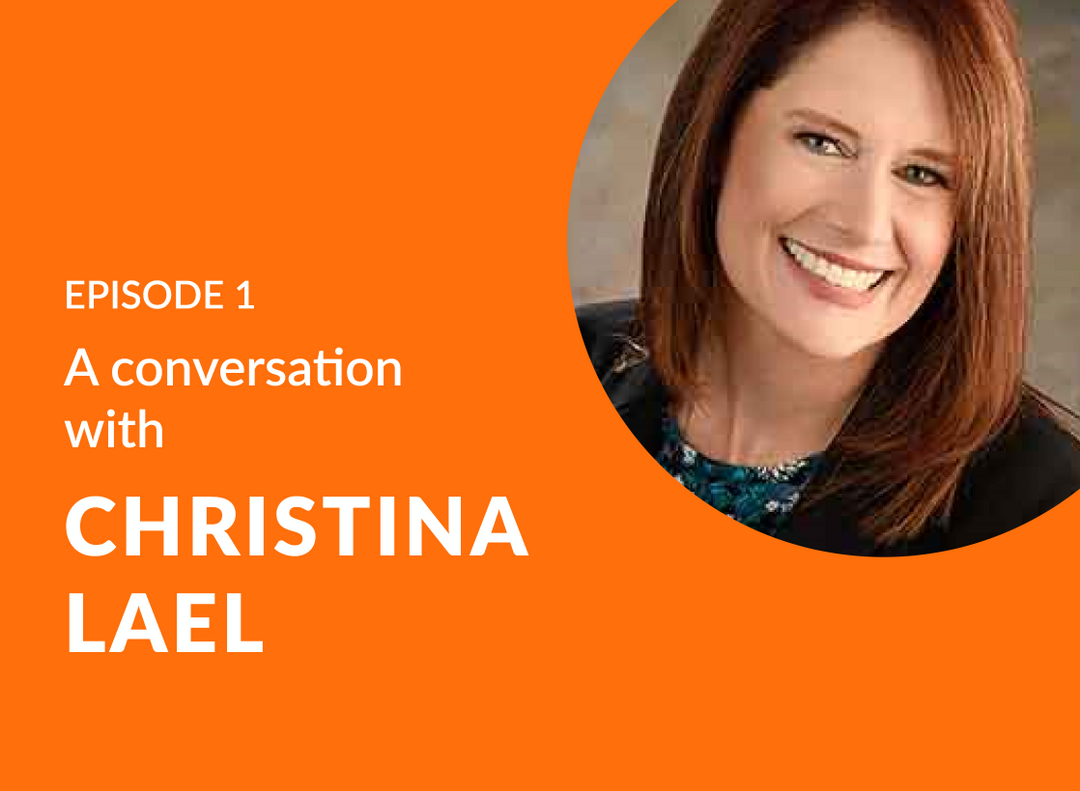
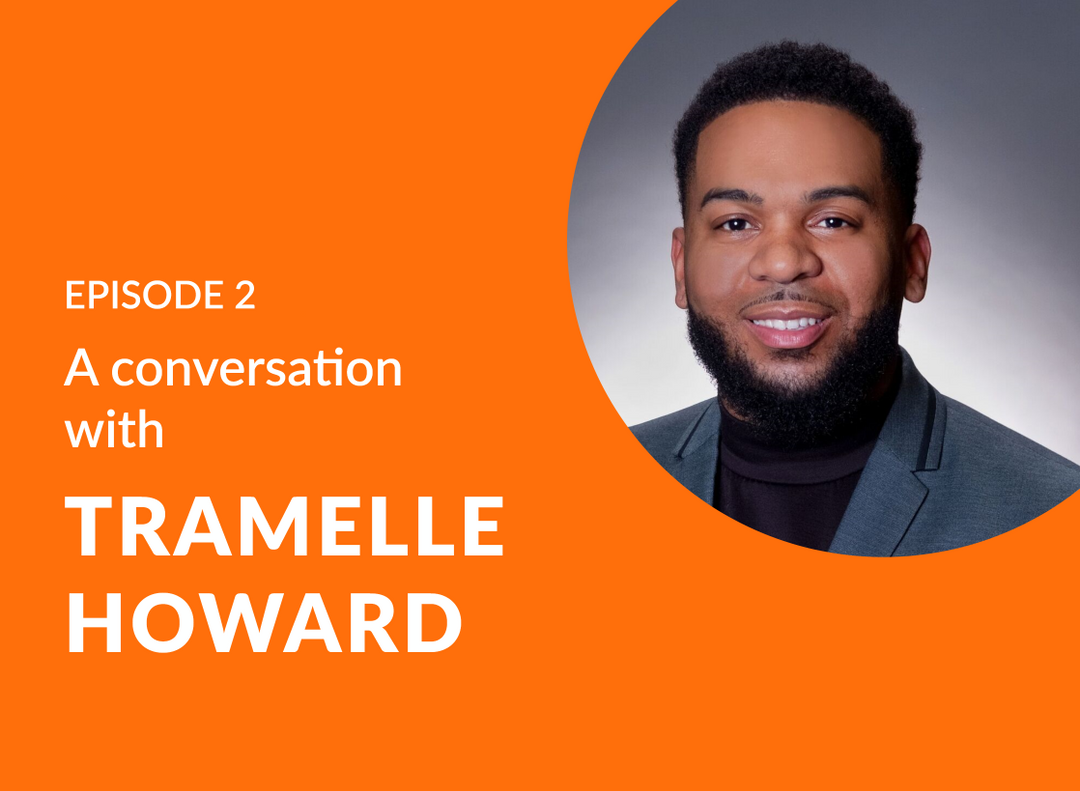
Episode 2

diff --git a/episodes/episode-2-tramelle-howard-policy-manager-and-lawyer-you-are-a-lawyer-podcast.html b/episodes/episode-2-tramelle-howard-policy-manager-and-lawyer-you-are-a-lawyer-podcast.html
@@ -1,15 +1,15 @@
 <!DOCTYPE html>
 <!--  This site was created in Webflow. http://www.webflow.com  -->
 <!--  Last Published: Thu May 14 2020 16:45:26 GMT+0000 (Coordinated Universal Time)  -->
-<html data-wf-page="5eab01162a096799f2105f12" data-wf-site="5e7a784685f232766bfb0c8c">
+<html data-wf-page="5ebd74fb89d6c42dfcaad224" data-wf-site="5e7a784685f232766bfb0c8c">
 <head>
   <meta charset="utf-8">
-  <title>Episode 1 | Christina Lael - Account and Lawyer</title>
-  <meta content="In this episode, Christina Lael, a 2010 Nashville School of Law graduate, explains how her experience as a certified public accountant promoted her to attend law school. Her knowledge of the tax code and law degree allowed Christina to create a niche tax practice." name="description">
-  <meta content="Episode 1 | Christina Lael - Account and Lawyer" property="og:title">
-  <meta content="In this episode, Christina Lael, a 2010 Nashville School of Law graduate, explains how her experience as a certified public accountant promoted her to attend law school. Her knowledge of the tax code and law degree allowed Christina to create a niche tax practice." property="og:description">
-  <meta content="Episode 1 | Christina Lael - Account and Lawyer" property="twitter:title">
-  <meta content="In this episode, Christina Lael, a 2010 Nashville School of Law graduate, explains how her experience as a certified public accountant promoted her to attend law school. Her knowledge of the tax code and law degree allowed Christina to create a niche tax practice." property="twitter:description">
+  <title>Episode 2 | Tramelle Howard - Policy Manager and Lawyer - You are a Lawyer Podcast</title>
+  <meta content="In this episode, Tramelle Howard, a 2015 Southern University Law Center graduate, explains how his experiences working with Teach for America taught him that he could advocate for others on a larger scale by working with the Education Trust in Louisiana.  Tramelle combined his legal education with his legal clinic training and ran for office, becoming the youngest person elected to District Three of the East Baton Rouge School Board." name="description">
+  <meta content="Episode 2 | Tramelle Howard - Policy Manager and Lawyer - You are a Lawyer Podcast" property="og:title">
+  <meta content="In this episode, Tramelle Howard, a 2015 Southern University Law Center graduate, explains how his experiences working with Teach for America taught him that he could advocate for others on a larger scale by working with the Education Trust in Louisiana.  Tramelle combined his legal education with his legal clinic training and ran for office, becoming the youngest person elected to District Three of the East Baton Rouge School Board." property="og:description">
+  <meta content="Episode 2 | Tramelle Howard - Policy Manager and Lawyer - You are a Lawyer Podcast" property="twitter:title">
+  <meta content="In this episode, Tramelle Howard, a 2015 Southern University Law Center graduate, explains how his experiences working with Teach for America taught him that he could advocate for others on a larger scale by working with the Education Trust in Louisiana.  Tramelle combined his legal education with his legal clinic training and ran for office, becoming the youngest person elected to District Three of the East Baton Rouge School Board." property="twitter:description">
   <meta property="og:type" content="website">
   <meta content="summary_large_image" name="twitter:card">
   <meta content="width=device-width, initial-scale=1" name="viewport">
@@ -71,11 +71,11 @@
   <div class="section">
     <div class="wrapper">
       <div class="row-nocolumns">
-        <h1 class="heading-7">Christina Lael - Account and Lawyer</h1>
-        <p>In this episode, Christina Lael, a 2010 Nashville School of Law graduate, explains how her experience as a certified public accountant promoted her to attend law school. Her knowledge of the tax code and law degree allowed Christina to create a niche tax practice.</p>
-        <div class="w-embed w-iframe"><iframe src="https://share.transistor.fm/e/964815d9" width="100%" height="180" frameborder="0" scrolling="no" seamless="true" style="width:100%; height:180px;"></iframe></div>
+        <h1 class="heading-7">Tramelle Howard - Policy Manager and Lawyer</h1>
+        <p>In this episode, Tramelle Howard, a 2015 Southern University Law Center graduate, explains how his experiences working with Teach for America taught him that he could advocate for others on a larger scale by working with the Education Trust in Louisiana.  Tramelle combined his legal education with his legal clinic training and ran for office, becoming the youngest person elected to District Three of the East Baton Rouge School Board.</p>
+        <div class="w-embed w-iframe"><iframe width="100%" height="180" frameborder="no" scrolling="no" seamless="" src="https://share.transistor.fm/e/8b513755"></iframe></div>
         <h3>Show notes</h3>
-        <p>Christina Lael owns and operates Lael Tax, LLC, based in Fort Myers, Florida.  Her business helps law firms save money with her thorough knowledge of the United States tax code.  Christina is a certified public accountant in Tennessee and Florida and a licensed attorney in the state of Tennessee. <br><br>Visit laeltax.com and sign up for the Lael Tax, LLC newsletter to receive copy of a book chapter entitled, Hidden Business Expenses.  This chapter is written by Christina and will be included in a book co-authored by Christina about the tax code.  More details at laeltax.com.<br><br>Follow the podcast on Twitter @YouAreA_Lawyer, Instagram @youarealawyer and on LinkedIn.  Follow the podcast host, Kyla Denanyoh on Instagram @kjd796.</p>
+        <p>Tramelle Howard serves as the external relations and policy manager with the Education Trust, where he advocates for equity for black, brown and low-income students in Baton Rouge, Louisiana.  Tramelle is currently serving District Three of the East Baton Rouge School Board, where he acts as the Vice President of that board. <br><br>Tramelle chose not to take any state’s bar exam and he has not regretted that decision.  Tramelle&#x27;s law degree has impacted his career in numerous ways, even though the trajectory of his career changed in numerous ways.<br><br>You may follow Tramelle Howard on Facebook, LinkedIn, Instagram @Tramelle.Howard, and Twitter @Tramelle.Howard.  <br><br>Follow the podcast on Twitter @YouAreA_Lawyer, Instagram @youarealawyer and on LinkedIn.  Follow the podcast host, Kyla Denanyoh, on Instagram @kjd796. <br><br><br></p>
       </div>
     </div>
   </div>
@@ -84,9 +84,9 @@
       <h2 class="recent-episodes">Recent Episodes</h2>
       <div class="row-nocolumns">
         <div class="innergrid">
-          <div class="episodecard"><a href="../episodes/episode-1-christina-lael-account-and-lawyer-you-are-a-lawyer-podcast.html" aria-current="page" class="w-inline-block w--current"><img src="../images/NF--episode-1.png" srcset="../images/NF--episode-1.png 500w, ../images/NF--episode-1.png 800w, ../images/NF--episode-1.png 1080w, ../images/NF--episode-1.png 1600w, ../images/NF--episode-1.png 3355w" sizes="(max-width: 479px) 100vw, (max-width: 991px) 44vw, 29vw" alt="" class="image-3"></a>
-            <h4 class="heading-2"><a href="../episodes/episode-1-christina-lael-account-and-lawyer-you-are-a-lawyer-podcast.html" aria-current="page" class="link-2 w--current">Episode 1 - Christina Lael - Accountant and Lawyer</a></h4>
-            <p class="paragraph-3">In this episode, Christina Lael, a 2010 Nashville School of Law graduate, explains how...</p><a href="../episodes/episode-1-christina-lael-account-and-lawyer-you-are-a-lawyer-podcast.html" aria-current="page" class="link-5 w--current">Read more &amp; listen</a></div>
+          <div class="episodecard"><a href="../episodes/episode-1-christina-lael-account-and-lawyer-you-are-a-lawyer-podcast.html" class="w-inline-block"><img src="../images/NF--episode-1.png" srcset="../images/NF--episode-1.png 500w, ../images/NF--episode-1.png 800w, ../images/NF--episode-1.png 1080w, ../images/NF--episode-1.png 1600w, ../images/NF--episode-1.png 3355w" sizes="(max-width: 479px) 100vw, (max-width: 991px) 44vw, 29vw" alt="" class="image-3"></a>
+            <h4 class="heading-2"><a href="../episodes/episode-1-christina-lael-account-and-lawyer-you-are-a-lawyer-podcast.html" class="link-2">Episode 1 - Christina Lael - Accountant and Lawyer</a></h4>
+            <p class="paragraph-3">In this episode, Christina Lael, a 2010 Nashville School of Law graduate, explains how...</p><a href="../episodes/episode-1-christina-lael-account-and-lawyer-you-are-a-lawyer-podcast.html" class="link-5">Read more &amp; listen</a></div>
           <div class="episodecard"><a href="../episodes/episode-0-how-law-school-helped-me-find-my-seat-at-the-table.html" class="w-inline-block"><img src="../images/episode-0-non-featured.jpg" srcset="../images/episode-0-non-featured-p-1080.jpeg 1080w, ../images/episode-0-non-featured-p-1600.jpeg 1600w, ../images/episode-0-non-featured-p-2000.jpeg 2000w, ../images/episode-0-non-featured-p-2600.jpeg 2600w, ../images/episode-0-non-featured-p-3200.jpeg 3200w, ../images/episode-0-non-featured.jpg 3355w" sizes="(max-width: 479px) 100vw, (max-width: 991px) 44vw, 29vw" alt="" class="image-3"></a>
             <h4 class="heading-2"><a href="../episodes/episode-0-how-law-school-helped-me-find-my-seat-at-the-table.html" class="link-2">Episode 0 - How law school helped me find my seat at the table</a></h4>
             <p class="paragraph-3">Check out the trailer to the show and learn about my journey to creating this podcast.</p><a href="../episodes/episode-0-how-law-school-helped-me-find-my-seat-at-the-table.html" class="link-5">Read more &amp; listen</a></div>

diff --git a/index.html b/index.html
@@ -1,6 +1,6 @@
 <!DOCTYPE html>
 <!--  This site was created in Webflow. http://www.webflow.com  -->
-<!--  Last Published: Thu Apr 30 2020 17:07:00 GMT+0000 (Coordinated Universal Time)  -->
+<!--  Last Published: Thu May 14 2020 16:45:26 GMT+0000 (Coordinated Universal Time)  -->
 <html data-wf-page="5e7a784685f232ee46fb0c8d" data-wf-site="5e7a784685f232766bfb0c8c">
 <head>
   <meta charset="utf-8">
@@ -8,7 +8,10 @@
   <meta content="You are a Lawyer is a podcast that shares the experiences and successes of law graduates who created their own paths. Kyla Denanyoh dives into the stories of lawyers who have chased their own unique paths." name="description">
   <meta content="You are a Lawyer Podcast hosted by Kyla Denanyoh" property="og:title">
   <meta content="You are a Lawyer is a podcast that shares the experiences and successes of law graduates who created their own paths. Kyla Denanyoh dives into the stories of lawyers who have chased their own unique paths." property="og:description">
-  <meta content="summary" name="twitter:card">
+  <meta content="You are a Lawyer Podcast hosted by Kyla Denanyoh" property="twitter:title">
+  <meta content="You are a Lawyer is a podcast that shares the experiences and successes of law graduates who created their own paths. Kyla Denanyoh dives into the stories of lawyers who have chased their own unique paths." property="twitter:description">
+  <meta property="og:type" content="website">
+  <meta content="summary_large_image" name="twitter:card">
   <meta content="width=device-width, initial-scale=1" name="viewport">
   <meta content="Webflow" name="generator">
   <link href="css/normalize.css" rel="stylesheet" type="text/css">
@@ -22,7 +25,7 @@
   <link href="images/webclip.png" rel="apple-touch-icon">
 </head>
 <body class="body">
-  <div data-collapse="medium" data-animation="default" data-duration="400" class="navbar w-nav">
+  <div data-collapse="medium" data-animation="default" data-duration="400" role="banner" class="navbar w-nav">
     <div class="wrapper navbar w-container">
       <div class="logowrap"><a href="index.html" aria-current="page" class="w-nav-brand w--current"><img src="images/primary_logo2x.png" width="100" srcset="images/primary_logo2x-p-500.png 500w, images/primary_logo2x-p-800.png 800w, images/primary_logo2x-p-1080.png 1080w, images/primary_logo2x-p-1600.png 1600w, images/primary_logo2x-p-2000.png 2000w, images/primary_logo2x-p-2600.png 2600w, images/primary_logo2x-p-3200.png 3200w, images/primary_logo2x.png 4782w" sizes="100.00000762939453px" alt=""></a></div>
       <nav role="navigation" class="navmenu w-nav-menu"><a href="episodes/episodes.html" class="nav-link w-nav-link">Episodes</a><a href="about.html" class="nav-link w-nav-link">About</a><a href="contact.html" class="nav-link last-link w-nav-link">Contact</a>
@@ -108,11 +111,11 @@
     <div class="wrapper lastestepisode vert">
       <h2 id="FeaturedEpisode" class="featuredsectiontitle">Featured Episode</h2>
       <div class="featuredepisodecardrow">
-        <div id="w-node-84d120891c66-20891c61" class="featuredepisodeimage"><img src="images/FEATURED.png" srcset="images/FEATURED.png 500w, images/FEATURED.png 800w, images/FEATURED.png 1080w, images/FEATURED.png 3355w" sizes="(max-width: 479px) 100vw, (max-width: 767px) 43vw, 45vw" alt="" class="feature-image"></div>
+        <div id="w-node-84d120891c66-20891c61" class="featuredepisodeimage"><img src="images/FEATURED.png" srcset="images/FEATURED.png 500w, images/FEATURED.png 800w, images/FEATURED.png 1080w, images/FEATURED.png 1600w, images/FEATURED.png 2000w, images/FEATURED.png 2600w, images/FEATURED.png 3200w, images/FEATURED.png 3355w" sizes="(max-width: 479px) 100vw, (max-width: 767px) 43vw, 45vw" alt="" class="feature-image"></div>
         <div id="w-node-84d120891c68-20891c61" class="featuredepisodetext">
           <p class="featuredepisodenumber">EPISODE 1</p>
-          <h3 class="featuredepisodetitle"><a href="episodes/episode-1-christina-lael-account-and-lawyer-you-are-a-lawyer-podcast.html" class="link-2">Christina Lael - Accountant and Lawyer</a></h3>
-          <p class="featuredepisodeexcerpttext">In this episode, Christina Lael, a 2010 Nashville School of Law graduate, explains how her experience as a certified public accountant promoted her to attend law school. Her knowledge of the tax code and law degree allowed Christina to create a niche tax practice.</p><a href="episodes/episode-1-christina-lael-account-and-lawyer-you-are-a-lawyer-podcast.html" class="button listen w-button">Listen now</a></div>
+          <h3 class="featuredepisodetitle"><a href="episodes/episode-2-tramelle-howard-policy-manager-and-lawyer-you-are-a-lawyer-podcast.html" class="link-2">Tramelle Howard - Policy Manager and Lawyer</a></h3>
+          <p class="featuredepisodeexcerpttext">In this episode, Tramelle Howard, a 2015 Southern University Law Center graduate, explains how his experiences working with Teach for America taught him that he could advocate for others on a larger scale by working with the Education Trust in Louisiana.  Tramelle combined his legal education with his legal clinic training and ran for office, becoming the youngest person elected to District Three of the East Baton Rouge School Board.</p><a href="episodes/episode-2-tramelle-howard-policy-manager-and-lawyer-you-are-a-lawyer-podcast.html" class="button listen w-button">Listen now</a></div>
       </div>
     </div>
   </div>
@@ -121,7 +124,10 @@
       <h2 class="recent-episodes">Recent Episodes</h2>
       <div class="row-nocolumns">
         <div class="innergrid">
-          <div class="episodecard"><a href="episodes/episode-0-how-law-school-helped-me-find-my-seat-at-the-table.html" class="w-inline-block"><img src="images/episode-0-non-featured.jpg" srcset="images/episode-0-non-featured.jpg 1080w, images/episode-0-non-featured.jpg 1600w, images/episode-0-non-featured.jpg 2000w, images/episode-0-non-featured.jpg 2600w, images/episode-0-non-featured.jpg 3200w, images/episode-0-non-featured.jpg 3355w" sizes="(max-width: 479px) 100vw, (max-width: 991px) 44vw, 29vw" alt="" class="image-3"></a>
+          <div class="episodecard"><a href="episodes/episode-1-christina-lael-account-and-lawyer-you-are-a-lawyer-podcast.html" class="w-inline-block"><img src="images/NF--episode-1.png" srcset="images/NF--episode-1.png 500w, images/NF--episode-1.png 800w, images/NF--episode-1.png 1080w, images/NF--episode-1.png 1600w, images/NF--episode-1.png 3355w" sizes="(max-width: 479px) 100vw, (max-width: 991px) 44vw, 29vw" alt="" class="image-3"></a>
+            <h4 class="heading-2"><a href="episodes/episode-1-christina-lael-account-and-lawyer-you-are-a-lawyer-podcast.html" class="link-2">Episode 1 - Christina Lael - Accountant and Lawyer</a></h4>
+            <p class="paragraph-3">In this episode, Christina Lael, a 2010 Nashville School of Law graduate, explains how...</p><a href="episodes/episode-1-christina-lael-account-and-lawyer-you-are-a-lawyer-podcast.html" class="link-5">Read more &amp; listen</a></div>
+          <div class="episodecard"><a href="episodes/episode-0-how-law-school-helped-me-find-my-seat-at-the-table.html" class="w-inline-block"><img src="images/episode-0-non-featured.jpg" srcset="images/episode-0-non-featured-p-1080.jpeg 1080w, images/episode-0-non-featured-p-1600.jpeg 1600w, images/episode-0-non-featured-p-2000.jpeg 2000w, images/episode-0-non-featured-p-2600.jpeg 2600w, images/episode-0-non-featured-p-3200.jpeg 3200w, images/episode-0-non-featured.jpg 3355w" sizes="(max-width: 479px) 100vw, (max-width: 991px) 44vw, 29vw" alt="" class="image-3"></a>
             <h4 class="heading-2"><a href="episodes/episode-0-how-law-school-helped-me-find-my-seat-at-the-table.html" class="link-2">Episode 0 - How law school helped me find my seat at the table</a></h4>
             <p class="paragraph-3">Check out the trailer to the show and learn about my journey to creating this podcast.</p><a href="episodes/episode-0-how-law-school-helped-me-find-my-seat-at-the-table.html" class="link-5">Read more &amp; listen</a></div>
         </div>

diff --git a/episodes/episodes.html b/episodes/episodes.html
@@ -1,6 +1,6 @@
 <!DOCTYPE html>
 <!--  This site was created in Webflow. http://www.webflow.com  -->
-<!--  Last Published: Thu Apr 30 2020 17:07:00 GMT+0000 (Coordinated Universal Time)  -->
+<!--  Last Published: Thu May 14 2020 16:45:26 GMT+0000 (Coordinated Universal Time)  -->
 <html data-wf-page="5e97ec6565f7a942804fd9be" data-wf-site="5e7a784685f232766bfb0c8c">
 <head>
   <meta charset="utf-8">
@@ -8,7 +8,10 @@
   <meta content="Check out our legal podcasts and share with anyone on reddit, spotify, apple podcast, stitcher and google podcast. Watch out for new episodes in 2020." name="description">
   <meta content="Recent Episodes | You are a Lawyer Podcast" property="og:title">
   <meta content="Check out our legal podcasts and share with anyone on reddit, spotify, apple podcast, stitcher and google podcast. Watch out for new episodes in 2020." property="og:description">
-  <meta content="summary" name="twitter:card">
+  <meta content="Recent Episodes | You are a Lawyer Podcast" property="twitter:title">
+  <meta content="Check out our legal podcasts and share with anyone on reddit, spotify, apple podcast, stitcher and google podcast. Watch out for new episodes in 2020." property="twitter:description">
+  <meta property="og:type" content="website">
+  <meta content="summary_large_image" name="twitter:card">
   <meta content="width=device-width, initial-scale=1" name="viewport">
   <meta content="Webflow" name="generator">
   <link href="../css/normalize.css" rel="stylesheet" type="text/css">
@@ -22,7 +25,7 @@
   <link href="../images/webclip.png" rel="apple-touch-icon">
 </head>
 <body>
-  <div data-collapse="medium" data-animation="default" data-duration="400" class="navbar w-nav">
+  <div data-collapse="medium" data-animation="default" data-duration="400" role="banner" class="navbar w-nav">
     <div class="wrapper navbar w-container">
       <div class="logowrap"><a href="../index.html" class="w-nav-brand"><img src="../images/primary_logo2x.png" width="100" srcset="../images/primary_logo2x-p-500.png 500w, ../images/primary_logo2x-p-800.png 800w, ../images/primary_logo2x-p-1080.png 1080w, ../images/primary_logo2x-p-1600.png 1600w, ../images/primary_logo2x-p-2000.png 2000w, ../images/primary_logo2x-p-2600.png 2600w, ../images/primary_logo2x-p-3200.png 3200w, ../images/primary_logo2x.png 4782w" sizes="100.00000762939453px" alt=""></a></div>
       <nav role="navigation" class="navmenu w-nav-menu"><a href="../episodes/episodes.html" aria-current="page" class="nav-link w-nav-link w--current">Episodes</a><a href="../about.html" class="nav-link w-nav-link">About</a><a href="../contact.html" class="nav-link last-link w-nav-link">Contact</a>
@@ -69,11 +72,11 @@
     <div class="wrapper lastestepisode vert">
       <h2 id="FeaturedEpisode" class="featuredsectiontitle">Featured Episode</h2>
       <div class="featuredepisodecardrow">
-        <div id="w-node-84d120891c66-20891c61" class="featuredepisodeimage"><img src="../images/FEATURED.png" srcset="../images/FEATURED.png 500w, ../images/FEATURED.png 800w, ../images/FEATURED.png 1080w, ../images/FEATURED.png 3355w" sizes="(max-width: 479px) 100vw, (max-width: 767px) 43vw, 45vw" alt="" class="feature-image"></div>
+        <div id="w-node-84d120891c66-20891c61" class="featuredepisodeimage"><img src="../images/FEATURED.png" srcset="../images/FEATURED.png 500w, ../images/FEATURED.png 800w, ../images/FEATURED.png 1080w, ../images/FEATURED.png 1600w, ../images/FEATURED.png 2000w, ../images/FEATURED.png 2600w, ../images/FEATURED.png 3200w, ../images/FEATURED.png 3355w" sizes="(max-width: 479px) 100vw, (max-width: 767px) 43vw, 45vw" alt="" class="feature-image"></div>
         <div id="w-node-84d120891c68-20891c61" class="featuredepisodetext">
           <p class="featuredepisodenumber">EPISODE 1</p>
-          <h3 class="featuredepisodetitle"><a href="../episodes/episode-1-christina-lael-account-and-lawyer-you-are-a-lawyer-podcast.html" class="link-2">Christina Lael - Accountant and Lawyer</a></h3>
-          <p class="featuredepisodeexcerpttext">In this episode, Christina Lael, a 2010 Nashville School of Law graduate, explains how her experience as a certified public accountant promoted her to attend law school. Her knowledge of the tax code and law degree allowed Christina to create a niche tax practice.</p><a href="../episodes/episode-1-christina-lael-account-and-lawyer-you-are-a-lawyer-podcast.html" class="button listen w-button">Listen now</a></div>
+          <h3 class="featuredepisodetitle"><a href="../episodes/episode-2-tramelle-howard-policy-manager-and-lawyer-you-are-a-lawyer-podcast.html" class="link-2">Tramelle Howard - Policy Manager and Lawyer</a></h3>
+          <p class="featuredepisodeexcerpttext">In this episode, Tramelle Howard, a 2015 Southern University Law Center graduate, explains how his experiences working with Teach for America taught him that he could advocate for others on a larger scale by working with the Education Trust in Louisiana.  Tramelle combined his legal education with his legal clinic training and ran for office, becoming the youngest person elected to District Three of the East Baton Rouge School Board.</p><a href="../episodes/episode-2-tramelle-howard-policy-manager-and-lawyer-you-are-a-lawyer-podcast.html" class="button listen w-button">Listen now</a></div>
       </div>
     </div>
   </div>
@@ -82,7 +85,10 @@
       <h2 class="recent-episodes">Recent Episodes</h2>
       <div class="row-nocolumns">
         <div class="innergrid">
-          <div class="episodecard"><a href="../episodes/episode-0-how-law-school-helped-me-find-my-seat-at-the-table.html" class="w-inline-block"><img src="../images/episode-0-non-featured.jpg" srcset="../images/episode-0-non-featured.jpg 1080w, ../images/episode-0-non-featured.jpg 1600w, ../images/episode-0-non-featured.jpg 2000w, ../images/episode-0-non-featured.jpg 2600w, ../images/episode-0-non-featured.jpg 3200w, ../images/episode-0-non-featured.jpg 3355w" sizes="(max-width: 479px) 100vw, (max-width: 991px) 44vw, 29vw" alt="" class="image-3"></a>
+          <div class="episodecard"><a href="../episodes/episode-1-christina-lael-account-and-lawyer-you-are-a-lawyer-podcast.html" class="w-inline-block"><img src="../images/NF--episode-1.png" srcset="../images/NF--episode-1.png 500w, ../images/NF--episode-1.png 800w, ../images/NF--episode-1.png 1080w, ../images/NF--episode-1.png 1600w, ../images/NF--episode-1.png 3355w" sizes="(max-width: 479px) 100vw, (max-width: 991px) 44vw, 29vw" alt="" class="image-3"></a>
+            <h4 class="heading-2"><a href="../episodes/episode-1-christina-lael-account-and-lawyer-you-are-a-lawyer-podcast.html" class="link-2">Episode 1 - Christina Lael - Accountant and Lawyer</a></h4>
+            <p class="paragraph-3">In this episode, Christina Lael, a 2010 Nashville School of Law graduate, explains how...</p><a href="../episodes/episode-1-christina-lael-account-and-lawyer-you-are-a-lawyer-podcast.html" class="link-5">Read more &amp; listen</a></div>
+          <div class="episodecard"><a href="../episodes/episode-0-how-law-school-helped-me-find-my-seat-at-the-table.html" class="w-inline-block"><img src="../images/episode-0-non-featured.jpg" srcset="../images/episode-0-non-featured-p-1080.jpeg 1080w, ../images/episode-0-non-featured-p-1600.jpeg 1600w, ../images/episode-0-non-featured-p-2000.jpeg 2000w, ../images/episode-0-non-featured-p-2600.jpeg 2600w, ../images/episode-0-non-featured-p-3200.jpeg 3200w, ../images/episode-0-non-featured.jpg 3355w" sizes="(max-width: 479px) 100vw, (max-width: 991px) 44vw, 29vw" alt="" class="image-3"></a>
             <h4 class="heading-2"><a href="../episodes/episode-0-how-law-school-helped-me-find-my-seat-at-the-table.html" class="link-2">Episode 0 - How law school helped me find my seat at the table</a></h4>
             <p class="paragraph-3">Check out the trailer to the show and learn about my journey to creating this podcast.</p><a href="../episodes/episode-0-how-law-school-helped-me-find-my-seat-at-the-table.html" class="link-5">Read more &amp; listen</a></div>
         </div>

diff --git a/about.html b/about.html
@@ -1,6 +1,6 @@
 <!DOCTYPE html>
 <!--  This site was created in Webflow. http://www.webflow.com  -->
-<!--  Last Published: Thu Apr 30 2020 17:07:00 GMT+0000 (Coordinated Universal Time)  -->
+<!--  Last Published: Thu May 14 2020 16:45:26 GMT+0000 (Coordinated Universal Time)  -->
 <html data-wf-page="5e97e1edeb4d9d5be198502c" data-wf-site="5e7a784685f232766bfb0c8c">
 <head>
   <meta charset="utf-8">
@@ -8,7 +8,10 @@
   <meta content="You Are a Lawyer is a podcast that shares the experiences and successes of law graduates who excel despite the bar exam. The words ‘lawyer’ and ‘attorney’ are used interchangeably, but LEXICO defines a lawyer as ‘a person who practices or studies law.’  As a law school graduate, you are a lawyer." name="description">
   <meta content="About the show and the host, Kyla Denanyoh" property="og:title">
   <meta content="You Are a Lawyer is a podcast that shares the experiences and successes of law graduates who excel despite the bar exam. The words ‘lawyer’ and ‘attorney’ are used interchangeably, but LEXICO defines a lawyer as ‘a person who practices or studies law.’  As a law school graduate, you are a lawyer." property="og:description">
-  <meta content="summary" name="twitter:card">
+  <meta content="About the show and the host, Kyla Denanyoh" property="twitter:title">
+  <meta content="You Are a Lawyer is a podcast that shares the experiences and successes of law graduates who excel despite the bar exam. The words ‘lawyer’ and ‘attorney’ are used interchangeably, but LEXICO defines a lawyer as ‘a person who practices or studies law.’  As a law school graduate, you are a lawyer." property="twitter:description">
+  <meta property="og:type" content="website">
+  <meta content="summary_large_image" name="twitter:card">
   <meta content="width=device-width, initial-scale=1" name="viewport">
   <meta content="Webflow" name="generator">
   <link href="css/normalize.css" rel="stylesheet" type="text/css">
@@ -22,7 +25,7 @@
   <link href="images/webclip.png" rel="apple-touch-icon">
 </head>
 <body class="body-2">
-  <div data-collapse="medium" data-animation="default" data-duration="400" class="navbar w-nav">
+  <div data-collapse="medium" data-animation="default" data-duration="400" role="banner" class="navbar w-nav">
     <div class="wrapper navbar w-container">
       <div class="logowrap"><a href="index.html" class="w-nav-brand"><img src="images/primary_logo2x.png" width="100" srcset="images/primary_logo2x-p-500.png 500w, images/primary_logo2x-p-800.png 800w, images/primary_logo2x-p-1080.png 1080w, images/primary_logo2x-p-1600.png 1600w, images/primary_logo2x-p-2000.png 2000w, images/primary_logo2x-p-2600.png 2600w, images/primary_logo2x-p-3200.png 3200w, images/primary_logo2x.png 4782w" sizes="100.00000762939453px" alt=""></a></div>
       <nav role="navigation" class="navmenu w-nav-menu"><a href="episodes/episodes.html" class="nav-link w-nav-link">Episodes</a><a href="about.html" aria-current="page" class="nav-link w-nav-link w--current">About</a><a href="contact.html" class="nav-link last-link w-nav-link">Contact</a>
@@ -88,11 +91,11 @@
     <div class="wrapper lastestepisode vert">
       <h2 id="FeaturedEpisode" class="featuredsectiontitle">Featured Episode</h2>
       <div class="featuredepisodecardrow">
-        <div id="w-node-84d120891c66-20891c61" class="featuredepisodeimage"><img src="images/FEATURED.png" srcset="images/FEATURED.png 500w, images/FEATURED.png 800w, images/FEATURED.png 1080w, images/FEATURED.png 3355w" sizes="(max-width: 479px) 100vw, (max-width: 767px) 43vw, 45vw" alt="" class="feature-image"></div>
+        <div id="w-node-84d120891c66-20891c61" class="featuredepisodeimage"><img src="images/FEATURED.png" srcset="images/FEATURED.png 500w, images/FEATURED.png 800w, images/FEATURED.png 1080w, images/FEATURED.png 1600w, images/FEATURED.png 2000w, images/FEATURED.png 2600w, images/FEATURED.png 3200w, images/FEATURED.png 3355w" sizes="(max-width: 479px) 100vw, (max-width: 767px) 43vw, 45vw" alt="" class="feature-image"></div>
         <div id="w-node-84d120891c68-20891c61" class="featuredepisodetext">
           <p class="featuredepisodenumber">EPISODE 1</p>
-          <h3 class="featuredepisodetitle"><a href="episodes/episode-1-christina-lael-account-and-lawyer-you-are-a-lawyer-podcast.html" class="link-2">Christina Lael - Accountant and Lawyer</a></h3>
-          <p class="featuredepisodeexcerpttext">In this episode, Christina Lael, a 2010 Nashville School of Law graduate, explains how her experience as a certified public accountant promoted her to attend law school. Her knowledge of the tax code and law degree allowed Christina to create a niche tax practice.</p><a href="episodes/episode-1-christina-lael-account-and-lawyer-you-are-a-lawyer-podcast.html" class="button listen w-button">Listen now</a></div>
+          <h3 class="featuredepisodetitle"><a href="episodes/episode-2-tramelle-howard-policy-manager-and-lawyer-you-are-a-lawyer-podcast.html" class="link-2">Tramelle Howard - Policy Manager and Lawyer</a></h3>
+          <p class="featuredepisodeexcerpttext">In this episode, Tramelle Howard, a 2015 Southern University Law Center graduate, explains how his experiences working with Teach for America taught him that he could advocate for others on a larger scale by working with the Education Trust in Louisiana.  Tramelle combined his legal education with his legal clinic training and ran for office, becoming the youngest person elected to District Three of the East Baton Rouge School Board.</p><a href="episodes/episode-2-tramelle-howard-policy-manager-and-lawyer-you-are-a-lawyer-podcast.html" class="button listen w-button">Listen now</a></div>
       </div>
     </div>
   </div>

diff --git a/episodes/episode-0-how-law-school-helped-me-find-my-seat-at-the-table.html b/episodes/episode-0-how-law-school-helped-me-find-my-seat-at-the-table.html
@@ -1,6 +1,6 @@
 <!DOCTYPE html>
 <!--  This site was created in Webflow. http://www.webflow.com  -->
-<!--  Last Published: Thu Apr 30 2020 17:07:00 GMT+0000 (Coordinated Universal Time)  -->
+<!--  Last Published: Thu May 14 2020 16:45:26 GMT+0000 (Coordinated Universal Time)  -->
 <html data-wf-page="5e97f41365f7a963b04ff81a" data-wf-site="5e7a784685f232766bfb0c8c">
 <head>
   <meta charset="utf-8">
@@ -8,7 +8,10 @@
   <meta content="Listen to the trailer for the You are a Lawyer Podcast and learn about how law school helped Kyla Denanyoh find her seat at the table. Subscribe wherever you get your podcasts." name="description">
   <meta content="Episode 0 | How law school helped me find my seat at the table" property="og:title">
   <meta content="Listen to the trailer for the You are a Lawyer Podcast and learn about how law school helped Kyla Denanyoh find her seat at the table. Subscribe wherever you get your podcasts." property="og:description">
-  <meta content="summary" name="twitter:card">
+  <meta content="Episode 0 | How law school helped me find my seat at the table" property="twitter:title">
+  <meta content="Listen to the trailer for the You are a Lawyer Podcast and learn about how law school helped Kyla Denanyoh find her seat at the table. Subscribe wherever you get your podcasts." property="twitter:description">
+  <meta property="og:type" content="website">
+  <meta content="summary_large_image" name="twitter:card">
   <meta content="width=device-width, initial-scale=1" name="viewport">
   <meta content="Webflow" name="generator">
   <link href="../css/normalize.css" rel="stylesheet" type="text/css">
@@ -22,7 +25,7 @@
   <link href="../images/webclip.png" rel="apple-touch-icon">
 </head>
 <body>
-  <div data-collapse="medium" data-animation="default" data-duration="400" class="navbar w-nav">
+  <div data-collapse="medium" data-animation="default" data-duration="400" role="banner" class="navbar w-nav">
     <div class="wrapper navbar w-container">
       <div class="logowrap"><a href="../index.html" class="w-nav-brand"><img src="../images/primary_logo2x.png" width="100" srcset="../images/primary_logo2x-p-500.png 500w, ../images/primary_logo2x-p-800.png 800w, ../images/primary_logo2x-p-1080.png 1080w, ../images/primary_logo2x-p-1600.png 1600w, ../images/primary_logo2x-p-2000.png 2000w, ../images/primary_logo2x-p-2600.png 2600w, ../images/primary_logo2x-p-3200.png 3200w, ../images/primary_logo2x.png 4782w" sizes="100.00000762939453px" alt=""></a></div>
       <nav role="navigation" class="navmenu w-nav-menu"><a href="../episodes/episodes.html" class="nav-link w-nav-link">Episodes</a><a href="../about.html" class="nav-link w-nav-link">About</a><a href="../contact.html" class="nav-link last-link w-nav-link">Contact</a>
@@ -81,7 +84,10 @@
       <h2 class="recent-episodes">Recent Episodes</h2>
       <div class="row-nocolumns">
         <div class="innergrid">
-          <div class="episodecard"><a href="../episodes/episode-0-how-law-school-helped-me-find-my-seat-at-the-table.html" aria-current="page" class="w-inline-block w--current"><img src="../images/episode-0-non-featured.jpg" srcset="../images/episode-0-non-featured.jpg 1080w, ../images/episode-0-non-featured.jpg 1600w, ../images/episode-0-non-featured.jpg 2000w, ../images/episode-0-non-featured.jpg 2600w, ../images/episode-0-non-featured.jpg 3200w, ../images/episode-0-non-featured.jpg 3355w" sizes="(max-width: 479px) 100vw, (max-width: 991px) 44vw, 29vw" alt="" class="image-3"></a>
+          <div class="episodecard"><a href="../episodes/episode-1-christina-lael-account-and-lawyer-you-are-a-lawyer-podcast.html" class="w-inline-block"><img src="../images/NF--episode-1.png" srcset="../images/NF--episode-1.png 500w, ../images/NF--episode-1.png 800w, ../images/NF--episode-1.png 1080w, ../images/NF--episode-1.png 1600w, ../images/NF--episode-1.png 3355w" sizes="(max-width: 479px) 100vw, (max-width: 991px) 44vw, 29vw" alt="" class="image-3"></a>
+            <h4 class="heading-2"><a href="../episodes/episode-1-christina-lael-account-and-lawyer-you-are-a-lawyer-podcast.html" class="link-2">Episode 1 - Christina Lael - Accountant and Lawyer</a></h4>
+            <p class="paragraph-3">In this episode, Christina Lael, a 2010 Nashville School of Law graduate, explains how...</p><a href="../episodes/episode-1-christina-lael-account-and-lawyer-you-are-a-lawyer-podcast.html" class="link-5">Read more &amp; listen</a></div>
+          <div class="episodecard"><a href="../episodes/episode-0-how-law-school-helped-me-find-my-seat-at-the-table.html" aria-current="page" class="w-inline-block w--current"><img src="../images/episode-0-non-featured.jpg" srcset="../images/episode-0-non-featured-p-1080.jpeg 1080w, ../images/episode-0-non-featured-p-1600.jpeg 1600w, ../images/episode-0-non-featured-p-2000.jpeg 2000w, ../images/episode-0-non-featured-p-2600.jpeg 2600w, ../images/episode-0-non-featured-p-3200.jpeg 3200w, ../images/episode-0-non-featured.jpg 3355w" sizes="(max-width: 479px) 100vw, (max-width: 991px) 44vw, 29vw" alt="" class="image-3"></a>
             <h4 class="heading-2"><a href="../episodes/episode-0-how-law-school-helped-me-find-my-seat-at-the-table.html" aria-current="page" class="link-2 w--current">Episode 0 - How law school helped me find my seat at the table</a></h4>
             <p class="paragraph-3">Check out the trailer to the show and learn about my journey to creating this podcast.</p><a href="../episodes/episode-0-how-law-school-helped-me-find-my-seat-at-the-table.html" aria-current="page" class="link-5 w--current">Read more &amp; listen</a></div>
         </div>

diff --git a/contact.html b/contact.html
@@ -1,11 +1,12 @@
 <!DOCTYPE html>
 <!--  This site was created in Webflow. http://www.webflow.com  -->
-<!--  Last Published: Thu Apr 30 2020 17:07:00 GMT+0000 (Coordinated Universal Time)  -->
+<!--  Last Published: Thu May 14 2020 16:45:26 GMT+0000 (Coordinated Universal Time)  -->
 <html data-wf-page="5e97e1fca7c4bd1335a2384c" data-wf-site="5e7a784685f232766bfb0c8c">
 <head>
   <meta charset="utf-8">
   <title>Contact</title>
   <meta content="Contact" property="og:title">
+  <meta content="Contact" property="twitter:title">
   <meta content="width=device-width, initial-scale=1" name="viewport">
   <meta content="Webflow" name="generator">
   <link href="css/normalize.css" rel="stylesheet" type="text/css">
@@ -19,7 +20,7 @@
   <link href="images/webclip.png" rel="apple-touch-icon">
 </head>
 <body>
-  <div data-collapse="medium" data-animation="default" data-duration="400" class="navbar w-nav">
+  <div data-collapse="medium" data-animation="default" data-duration="400" role="banner" class="navbar w-nav">
     <div class="wrapper navbar w-container">
       <div class="logowrap"><a href="index.html" class="w-nav-brand"><img src="images/primary_logo2x.png" width="100" srcset="images/primary_logo2x-p-500.png 500w, images/primary_logo2x-p-800.png 800w, images/primary_logo2x-p-1080.png 1080w, images/primary_logo2x-p-1600.png 1600w, images/primary_logo2x-p-2000.png 2000w, images/primary_logo2x-p-2600.png 2600w, images/primary_logo2x-p-3200.png 3200w, images/primary_logo2x.png 4782w" sizes="100.00000762939453px" alt=""></a></div>
       <nav role="navigation" class="navmenu w-nav-menu"><a href="episodes/episodes.html" class="nav-link w-nav-link">Episodes</a><a href="about.html" class="nav-link w-nav-link">About</a><a href="contact.html" aria-current="page" class="nav-link last-link w-nav-link w--current">Contact</a>
@@ -74,11 +75,11 @@
     <div class="wrapper lastestepisode vert">
       <h2 id="FeaturedEpisode" class="featuredsectiontitle">Featured Episode</h2>
       <div class="featuredepisodecardrow">
-        <div id="w-node-84d120891c66-20891c61" class="featuredepisodeimage"><img src="images/FEATURED.png" srcset="images/FEATURED.png 500w, images/FEATURED.png 800w, images/FEATURED.png 1080w, images/FEATURED.png 3355w" sizes="(max-width: 479px) 100vw, (max-width: 767px) 43vw, 45vw" alt="" class="feature-image"></div>
+        <div id="w-node-84d120891c66-20891c61" class="featuredepisodeimage"><img src="images/FEATURED.png" srcset="images/FEATURED.png 500w, images/FEATURED.png 800w, images/FEATURED.png 1080w, images/FEATURED.png 1600w, images/FEATURED.png 2000w, images/FEATURED.png 2600w, images/FEATURED.png 3200w, images/FEATURED.png 3355w" sizes="(max-width: 479px) 100vw, (max-width: 767px) 43vw, 45vw" alt="" class="feature-image"></div>
         <div id="w-node-84d120891c68-20891c61" class="featuredepisodetext">
           <p class="featuredepisodenumber">EPISODE 1</p>
-          <h3 class="featuredepisodetitle"><a href="episodes/episode-1-christina-lael-account-and-lawyer-you-are-a-lawyer-podcast.html" class="link-2">Christina Lael - Accountant and Lawyer</a></h3>
-          <p class="featuredepisodeexcerpttext">In this episode, Christina Lael, a 2010 Nashville School of Law graduate, explains how her experience as a certified public accountant promoted her to attend law school. Her knowledge of the tax code and law degree allowed Christina to create a niche tax practice.</p><a href="episodes/episode-1-christina-lael-account-and-lawyer-you-are-a-lawyer-podcast.html" class="button listen w-button">Listen now</a></div>
+          <h3 class="featuredepisodetitle"><a href="episodes/episode-2-tramelle-howard-policy-manager-and-lawyer-you-are-a-lawyer-podcast.html" class="link-2">Tramelle Howard - Policy Manager and Lawyer</a></h3>
+          <p class="featuredepisodeexcerpttext">In this episode, Tramelle Howard, a 2015 Southern University Law Center graduate, explains how his experiences working with Teach for America taught him that he could advocate for others on a larger scale by working with the Education Trust in Louisiana.  Tramelle combined his legal education with his legal clinic training and ran for office, becoming the youngest person elected to District Three of the East Baton Rouge School Board.</p><a href="episodes/episode-2-tramelle-howard-policy-manager-and-lawyer-you-are-a-lawyer-podcast.html" class="button listen w-button">Listen now</a></div>
       </div>
     </div>
   </div>
